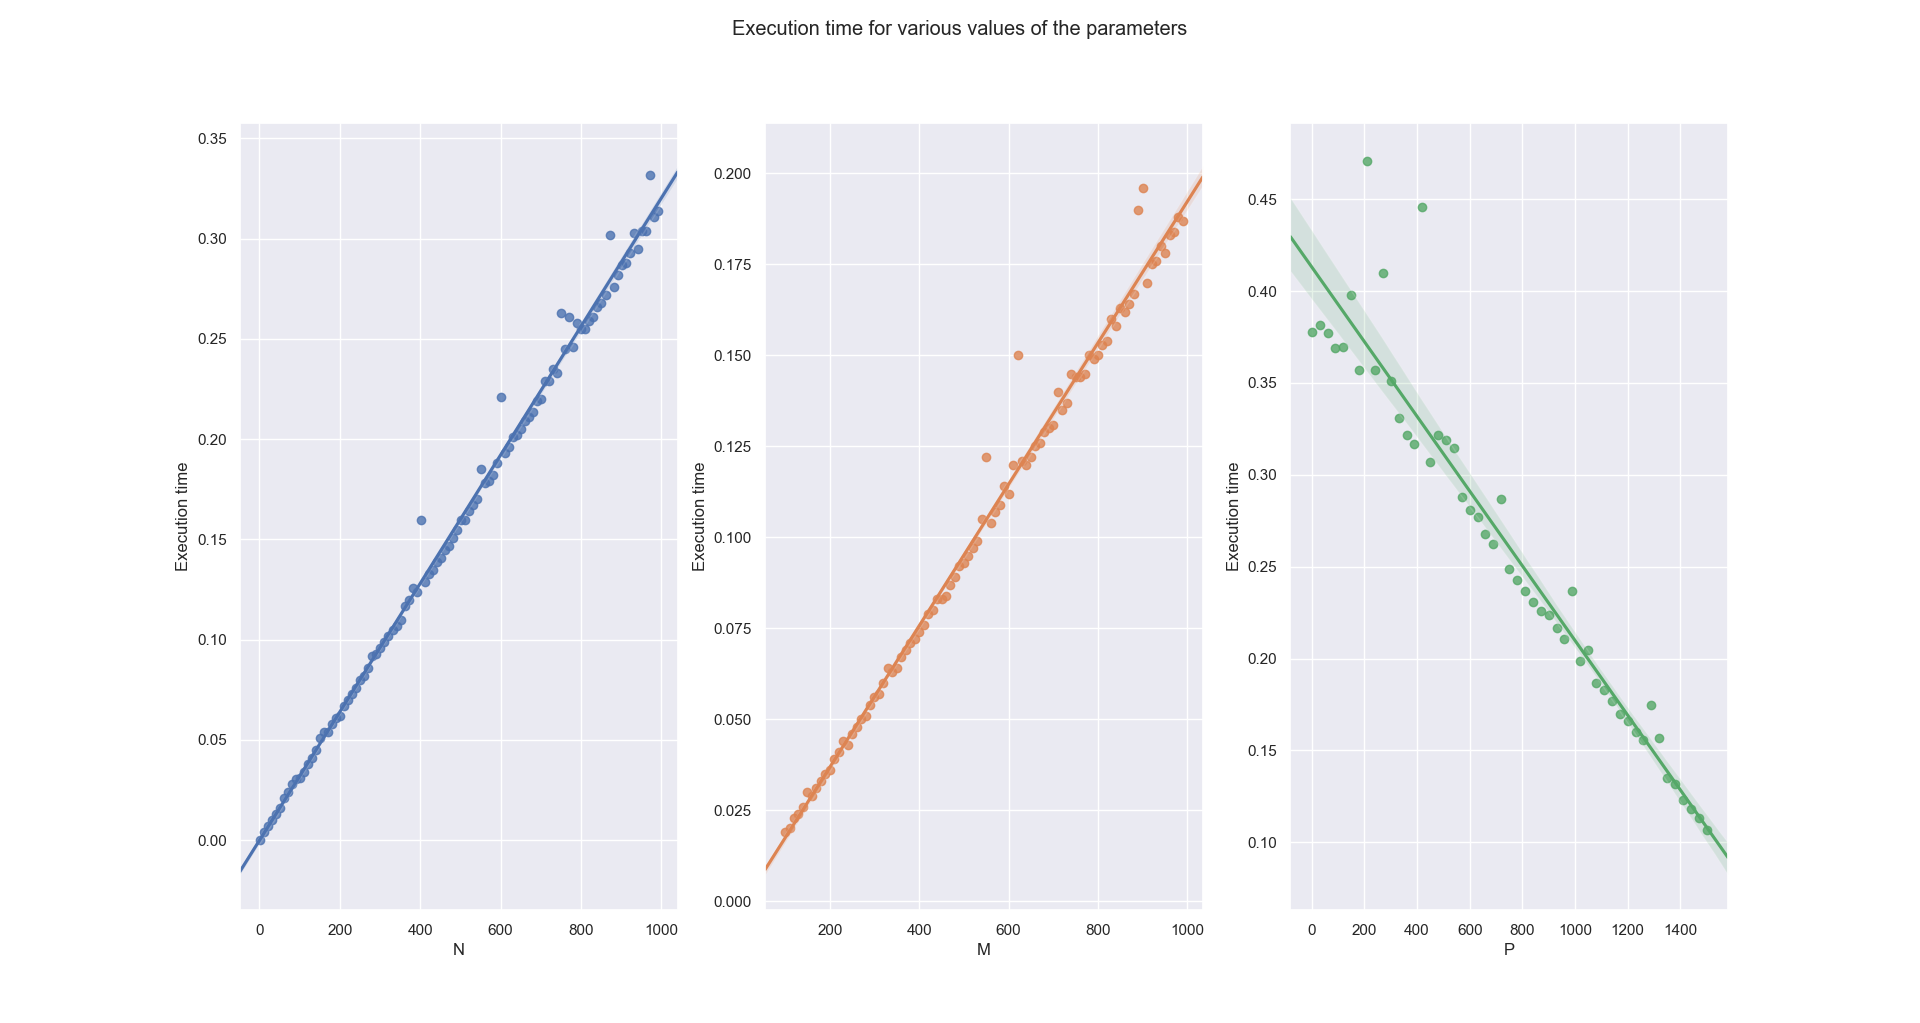
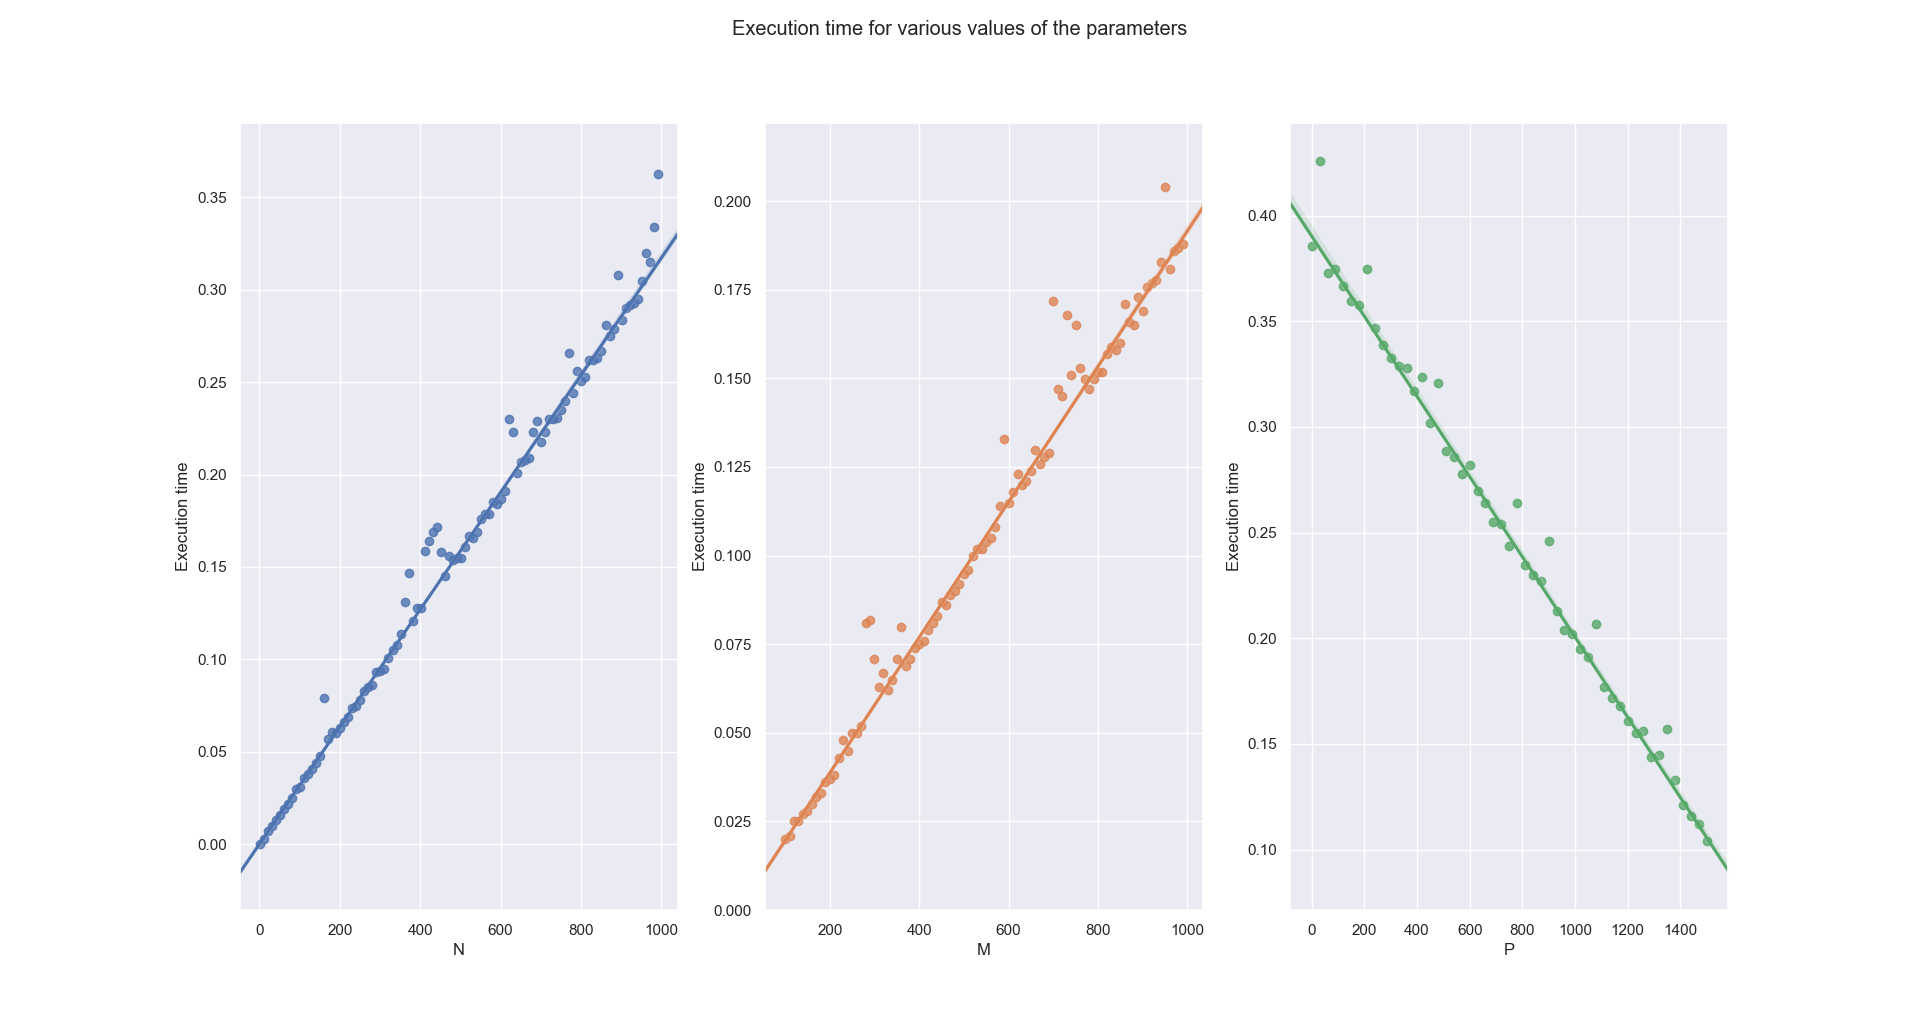
Finished part2

diff --git a/p2.py b/p2.py
@@ -10,68 +10,6 @@ import pandas as pd
 import time
 import random 
 
-def nsearchv2(L,P,target):
-    """Input:
-    L: list containing *N* sub-lists of length M. Each sub-list
-    contains M numbers (floats or ints), and the first P elements
-    of each sub-list can be assumed to have been sorted in
-    ascending order (assume that P<M). L[i][:p] contains the sorted elements in
-    the i+1th sub-list of L
-    P: The first P elements in each sub-list of L are assumed
-    to be sorted in ascending order
-    target: the number to be searched for in L
-
-    Output:
-    Lout: A list consisting of Q 2-element sub-lists where Q is the number of
-    times target occurs in L. Each sub-list should contain 1) the index of
-    the sublist of L where target was found and 2) the index within the sublist
-    where the target was found. So, Lout = [[0,5],[0,6],[1,3]] indicates
-    that the target can be found at L[0][5],L[0][6],L[1][3]. If target
-    is not found in L, simply return an empty list (as in the code below)
-    """
-    Lout = []
-    N = len(L)
-    if(N == 0):
-        return Lout
-
-    M = len(L[0])        
-    
-    found = False
-    mid = 0
-    for i in range(N):                   
-        Lout += [[i,j] for j in range(P,M) if L[i,j] == target]
-
-        start = 0
-        end = P-1
-        if(not found):          #if the previous iteration found the target there is a good chance that it'll appear close to the previous mid otherwise reset mid
-            mid = (P-1)//2
-
-        found = False
-        while start <= end:     #binary search
-            if target == L[i, mid]:
-                Lout += [[i,mid]]
-                found = True
-                break
-            elif target < L[i, mid]:
-                end = mid-1
-            else:
-                start = mid+1
-            mid = (start + end)//2  
-        
-        if(start < mid):        #check for targets before midpoint
-            for j in range(mid-1, start-1, -1):
-                if(target == L[i, j]):
-                    Lout += [[i,j]]
-                else:
-                    break
-        
-        if(end > mid):          #check for targets after midpoint
-            for j in range(mid+1, end + 1):
-                if(target == L[i, j]):
-                    Lout += [[i,j]]
-                else:
-                    break
-    return Lout
 
 def nsearch(L,P,target):
     """Input:
@@ -99,14 +37,15 @@ def nsearch(L,P,target):
 
     M = len(L[0])        
     
-    for i in range(N):                   
-        Lout += [[i,j] for j in range(P,M) if L[i,j] == target]
+    for i in range(N):             #iterate thorugh each sublist  
+        Lout += [[i,j] for j in range(P,M) if L[i,j] == target] #add matches in unsorted part of the list
 
         start = 0
         end = P-1
         mid = 0
 
         while start <= end:     #binary search
+            mid = (start + end)//2  
             if target == L[i, mid]:
                 Lout += [[i,mid]]
                 break
@@ -114,84 +53,25 @@ def nsearch(L,P,target):
                 end = mid-1
             else:
                 start = mid+1
-            mid = (start + end)//2  
-        
-        if(start < mid):        #check for targets before midpoint
-            for j in range(mid-1, start-1, -1):
-                if(target == L[i, j]):
-                    Lout += [[i,j]]
-                else:
-                    break
-        
-        if(end > mid):          #check for targets after midpoint
-            for j in range(mid+1, end + 1):
-                if(target == L[i, j]):
-                    Lout += [[i,j]]
-                else:
-                    break
-    return Lout
 
-def nsearchv3(L,P,target):
-    """Input:
-    L: list containing *N* sub-lists of length M. Each sub-list
-    contains M numbers (floats or ints), and the first P elements
-    of each sub-list can be assumed to have been sorted in
-    ascending order (assume that P<M). L[i][:p] contains the sorted elements in
-    the i+1th sub-list of L
-    P: The first P elements in each sub-list of L are assumed
-    to be sorted in ascending order
-    target: the number to be searched for in L
 
-    Output:
-    Lout: A list consisting of Q 2-element sub-lists where Q is the number of
-    times target occurs in L. Each sub-list should contain 1) the index of
-    the sublist of L where target was found and 2) the index within the sublist
-    where the target was found. So, Lout = [[0,5],[0,6],[1,3]] indicates
-    that the target can be found at L[0][5],L[0][6],L[1][3]. If target
-    is not found in L, simply return an empty list (as in the code below)
-    """
-    Lout = []
-    N = len(L)
-    if(N == 0):
-        return Lout
-
-    M = len(L[0])        
-    
-    for i in range(N):                   
-        for j in range(P, M):
-            if(L[i,j] == target):
+        for j in range(mid-1, start-1, -1):     #check for targets before midpoint
+            if(target == L[i, j]):
                 Lout += [[i,j]]
-
-        start = 0
-        end = P-1
-        mid = 0
-
-        while start <= end:     #binary search
-            if target == L[i, mid]:
-                Lout += [[i,mid]]
+            else:       #no more matches as list is ordered
                 break
-            elif target < L[i, mid]:
-                end = mid-1
+        
+        for j in range(mid+1, end + 1):     #check for targets after midpoint
+            if(target == L[i, j]):
+                Lout += [[i,j]]
             else:
-                start = mid+1
-            mid = (start + end)//2  
-        
-        if(start < mid):        #check for targets before midpoint
-            for j in range(mid-1, start-1, -1):
-                if(target == L[i, j]):
-                    Lout += [[i,j]]
-                else:
-                    break
-        
-        if(end > mid):          #check for targets after midpoint
-            for j in range(mid+1, end + 1):
-                if(target == L[i, j]):
-                    Lout += [[i,j]]
-                else:
-                    break
+                break
     return Lout
 
 def generateList(N,M,P,integer = False, maxInt = 100):
+    """
+    Generates a list of partially ordered sublists as in the problem statement
+    """
     L = np.random.rand(N,M)
     L[:,:P].sort()
     if(integer):
@@ -232,24 +112,19 @@ def analyseG(NMP, maxVals):
 
 def plotNMP(dfN,dfM,dfP,dfMP, saveNumber=-1):
     f,axes = plt.subplots(1,3)
-    sns.regplot(y='Execution time', x='N', data=dfN, ax=axes[0])
-    sns.regplot(y='Execution time', x='M', data=dfM, ax=axes[1])
-    sns.regplot(y='Execution time', x='P', data=dfP, ax=axes[2])
+    sns.regplot(y='Execution time', x='N', data=dfN, ax=axes[0], robust=True)
+    sns.regplot(y='Execution time', x='M', data=dfM, ax=axes[1], robust=True)
+    sns.regplot(y='Execution time', x='P', data=dfP, ax=axes[2], robust=True)
     f.suptitle("Execution time for various values of the parameters")
-    plt.savefig("figures/fig"+str(saveNumber)+".png", bbox_inches='tight')
-    plt.show()
+    plt.savefig("fig"+str(saveNumber)+".png", bbox_inches='tight')
 
-    sns.lmplot(y='Execution time', x='M', hue='M - P', data=dfMP).fig.suptitle("Execution time as M-P is fixed and M is varied")
-    plt.savefig("figures/fig"+str(saveNumber+1)+".png", bbox_inches='tight')
-    plt.show()
+    sns.lmplot(y='Execution time', x='M', hue='M - P', data=dfMP, robust=True).fig.suptitle("Execution time as M-P is fixed and M is varied")
+    plt.savefig("fig"+str(saveNumber+1)+".png", bbox_inches='tight')
 
 def plotG(dfG, saveNumber=-1):
-    sns.regplot(y='Execution time', x='G', data=dfG).set_title("Execution time against various number of matching elements")
-    plt.savefig("figures/fig"+str(saveNumber)+".png", bbox_inches='tight')
-    plt.show()
-
-    
-
+    plt.clf()
+    sns.regplot(y='Execution time', x='G', data=dfG, robust=True).set_title("Execution time against various number of matching elements")
+    plt.savefig("fig"+str(saveNumber)+".png", bbox_inches='tight')
 
 
 
@@ -260,9 +135,47 @@ def nsearch_time(saveStart=-100):
     the figures you are submitting with your codes.
 
     Discussion: (add your discussion here)
-    """
+    The algorithm is quite simple: we treat each sublist independently, first each
+    unsorted part is searched with a normal linear search. Then a binary search is 
+    performed on the sorted part, if no match is found the code moves on to the 
+    next row, otherwise elements before and after the match are added as long
+    as they are also a match.
+    There are two main time consuming operations: comparing elements against the 
+    target and appending elements to the end of Lout. Define N, M, P as in nsearch,
+    furthermore let G be the number of matches (ie len(Lout)), r=G/NM the proportion
+    of matches, s the time for a comparison and access, u the time for appending 
+    to Lout. Appending values to the array takes uG=urNM time. Each search is independent
+    of all the others, the ordered part of the search takes sNlog_2 P on average for finding the
+    first match and a further srPN for the other matches. Finally the unsorted part
+    of the search takes sN(M-P). Adding everything up we get an estimate of
+    sN(M-(1-r)P+log_2 P)+arNM. Working under the assumption that r is small (if 
+    not the algorithm can be made more efficient as will be described later), this
+    gives us an estimate of O(N(M-P)) for our running time.
+    The figures seem to confirm this analysis: figure 1 shows a strong linear trend for 
+    N, M, P with the last one being inversely correlated to the execution time.
+    Figure 2 shows that M is much less important than M-P for execution time (the
+    small increasing tend is given by the fact that r is non-identically 0).
+    The final figure shows the effect that large values of G can have on the runtime:
+    N, M and P where kept constant (with P=0), while the value of r was increased
+    resulting in more matches. Since appending has a high cost, this had a major
+    effect on the execution time.
 
-    Ns = range(1,1000,10)
+    Finally, a few notes on various choices I made while implementing the algorithm.
+    I decided to optimise this algorithm for the case where r is small which is
+    more probable in real world applications, for example this means that I've 
+    implemented a linear search after the target has been found in the ordered
+    part of the list (see line 58) for finding the other possible matches. A binary
+    search here would only make the program more complex, and in any case accessing
+    and comparing an item in an array is a lot faster than appending item to Lout,
+    so the relative gains are minor.
+    Working on the assumption that r is small also led me to treat every binary
+    search as independent from the others: I experimented in setting the starting 
+    point for the search at the coordinate of the previous match but with no increase
+    in speed. If the data was known to follow some sort of distribution some adjustments
+    would probably be possible but this algorithm is meant for general purposes.
+
+    """
+    Ns = range(1,1000,10)       #test running times for various values of the parameters
     MPs = [(1000,200)]
     dfN = analyse(Ns,MPs)
     print("Finished N")
@@ -297,18 +210,14 @@ def nsearch_time(saveStart=-100):
     dfMP = analyse(Ns,MPs)
     print("Finished MP")
 
-
+    print("Plotting first two figures")
     plotNMP(dfN,dfM,dfP,dfMP,saveStart)    
     saveStart += 2
-
-
+    
     NMP = (200,500,500)
     maxVals = range(1,100)
     dfG = analyseG(NMP, maxVals)
-
-
-
-    
+    print("Finished G")
 
     plotG(dfG, saveStart)    
     saveStart += 1
@@ -320,4 +229,4 @@ if __name__ == '__main__':
     #add call(s) to nsearch here which generate the figure(s)
     #you are submitting
     sns.set()
-    #nsearch_time()
+    nsearch_time(1)
